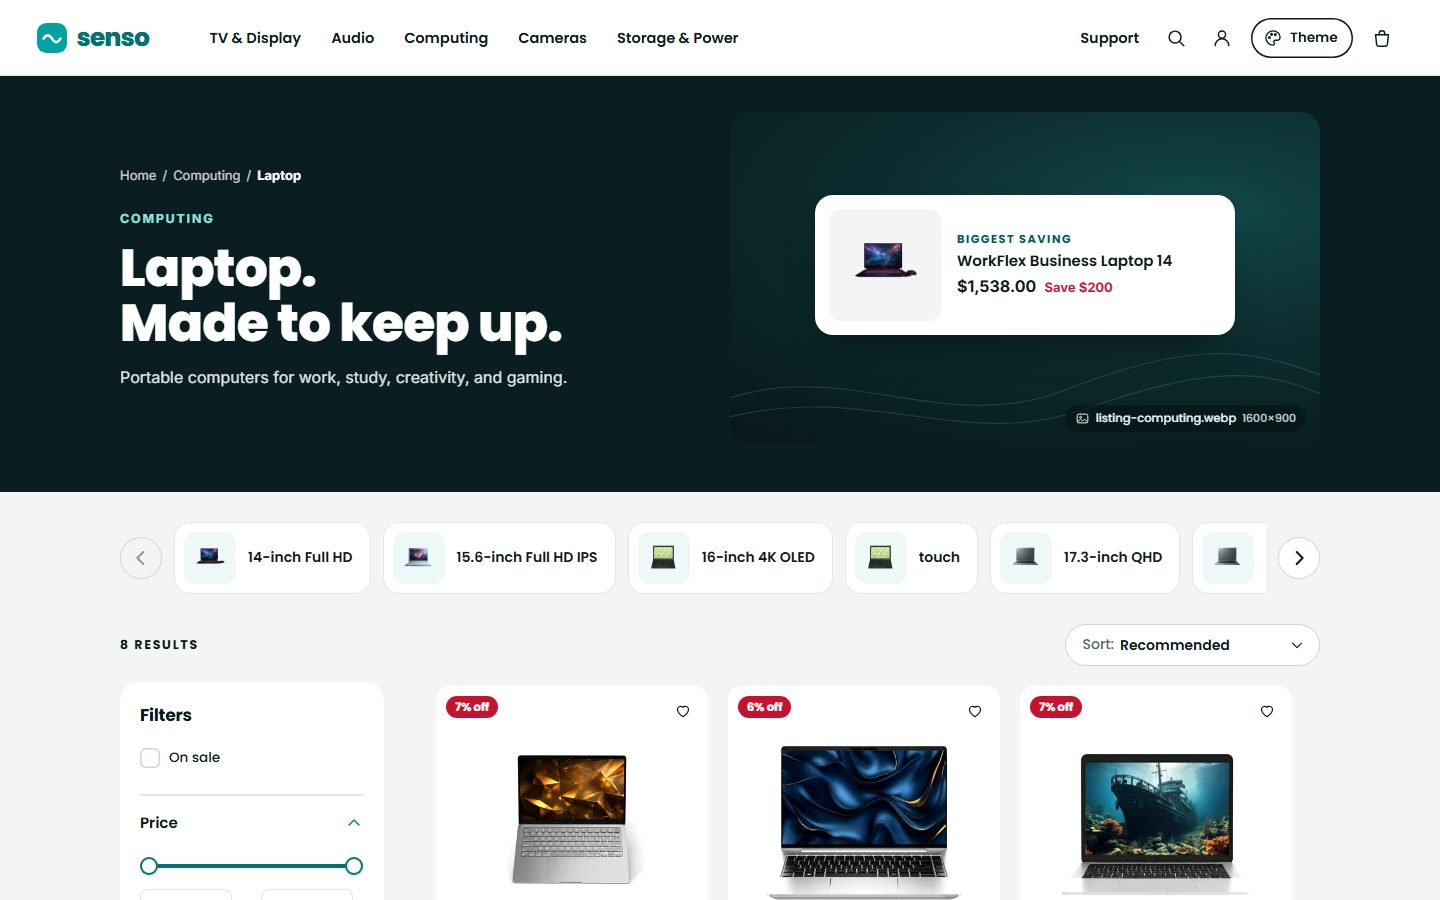
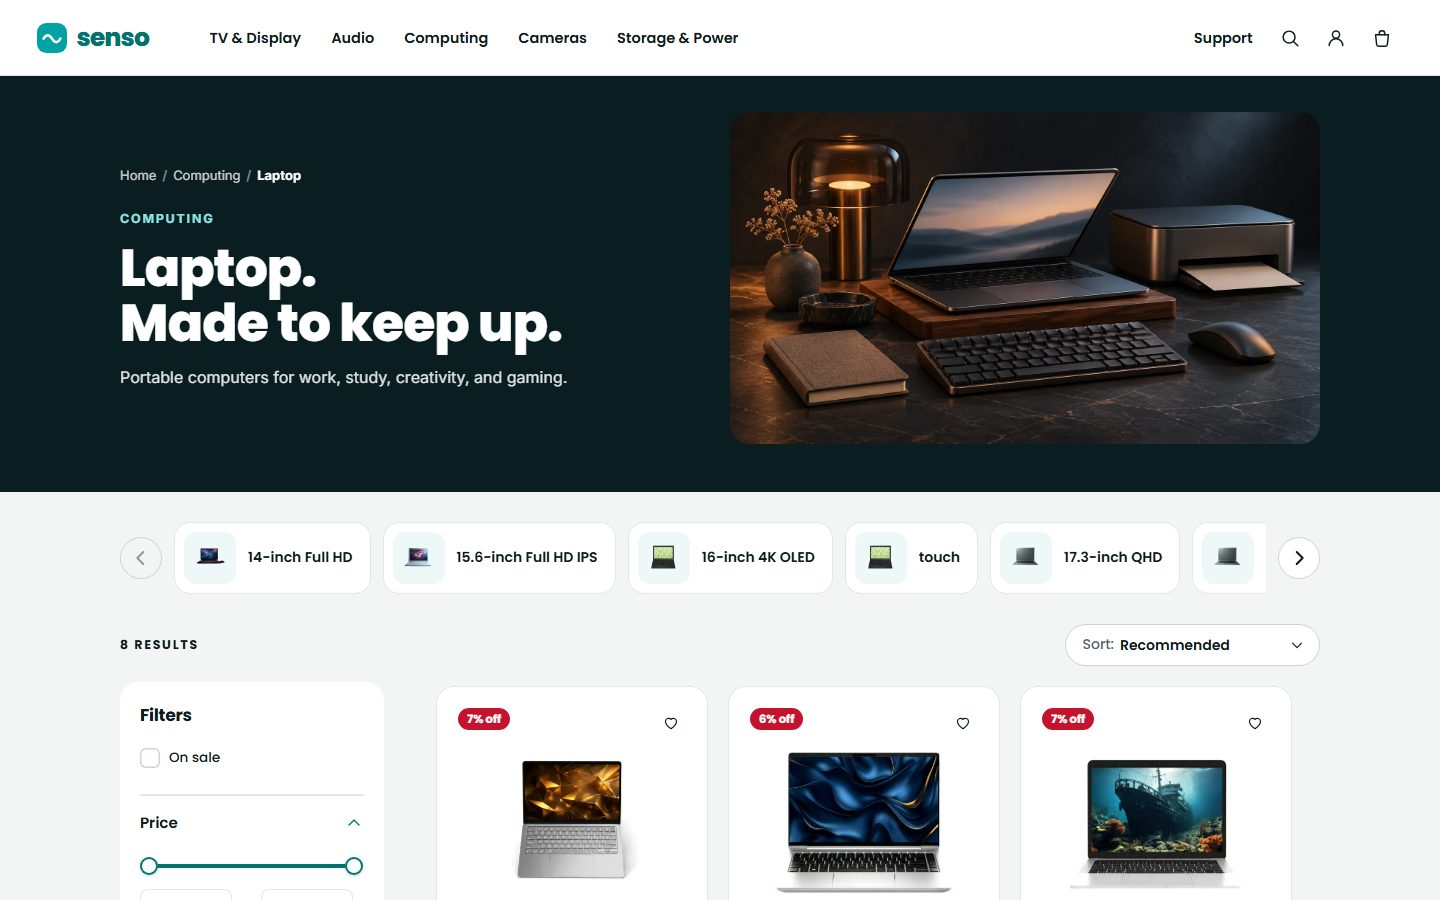
Senso 1.0.6: deploy 488 (release 01M72J7BVKMY9G9R312YVZQ2RM) pinned on domain 1242 — the theme row in the footer, the Codex photos
README screenshots and the cover retaken from the live 1.0.6 (desktop-theme.jpg
is now the footer's Theme row). SENSO.md: 1.0.5 and 1.0.6 with the live checks.
The shared contrast-audit.cjs copied from the kit (it now reads color-mix() and
oklab backgrounds).

diff --git a/SENSO.md b/SENSO.md
@@ -27,8 +27,8 @@ A premium electronics brand site: calm, spacious and cinematic.
 | --- | --- |
 | The name and mark (one place: `BRAND.name`) | `components/kalio/kalio-brand.ts`, `SensoWordmark.vue`, `assets/brand/senso-mark.svg` |
 | Product families from the live categories (TV & Display, Audio, Computing, Cameras, Storage & Power, More) | `components/senso/senso-families.ts` |
-| Header: clear over the hero, then solid white; families with mega panels (click, second click, Esc, click outside); Support, search panel, Account, Theme, cart; phone: full-screen menu with accordions | `components/kalio/shell/KalioHeader.vue`, `SensoMegaMenu.vue` |
-| Footer on mint: wordmark and the shop's socials, 4 link columns, legal row | `components/kalio/shell/KalioFooter.vue` |
+| Header: clear over the hero, then solid white; families with mega panels (click, second click, Esc, click outside); Support, search panel, Account, cart; phone: full-screen menu with accordions | `components/kalio/shell/KalioHeader.vue`, `SensoMegaMenu.vue` |
+| Footer on mint: wordmark and the shop's socials, 4 link columns, the Theme row (showcase shops only), legal row | `components/kalio/shell/KalioFooter.vue` |
 | Home: hero carousel, FEATURED, COLLECTIONS, LIFESTYLE, DEALS, CATEGORY, NEW, STORIES, newsletter | `SensoHome.vue`, `SensoHero.vue`, `SensoShowcase.vue`, `SensoCollections.vue`, `SensoRail.vue`, `SensoShelf.vue`, `SensoBlog.vue`, `SensoNewsletter.vue` |
 | The card (well, swatches or capacities, price, Save, deal clock, Add to cart / Choose options, Learn more in listings, Compare) | `SensoCard.vue`, `senso-card.ts` |
 | Listing: dark banner, kinds chips, N results, Sort pill, filter card, three a row; loading states | `SensoShopTop.vue`, `SensoFilterPanel.vue`, `pages/products/StorefrontPageProducts.vue`, `senso-listing-loading.ts` |
@@ -63,12 +63,25 @@ The domain's loading screen (the mark and "senso" on teal-ink with a thin moving
 
 Checks, all at 0:
 
-- `components/theme-switcher/tools/header-check.cjs` (`STORAGE_KEY=senso-theme`, `BRAND=.sn-header__brand`, `CART=.sn-header__ic.-cart`, `ACCOUNT=.sn-header__ic.-account`);
+- the footer's Theme row: palettes, Custom colour and Light / Dark repaint the site and survive a reload; no row and no stored theme on another shop (`header-check.cjs` tested the old header button and no longer applies);
 - `contrast-audit.cjs` and `cart-audit.cjs`;
 - `new-shop-kits/single-vendor-shop/ring-sweep.cjs`;
-- `scripts/senso-layout-checks.cjs`: every picture inside its own box, and every icon list on one edge.
+- `scripts/senso-layout-checks.cjs`: every picture inside its own box, every icon list on one edge, and every product card's content 8px or more inside its edges (`PAGES`, `WIDTHS`, `STORAGE`, `OPEN`, `FILLCART` as in its header).
 
 ## Releases
+
+- **1.0.6 (10 November 2026, deploy 488, release `01M72J7BVKMY9G9R312YVZQ2RM`, pinned on domain 1242): the theme row in the footer, the Codex photos.**
+  - **The theme switcher moves to the footer** (the owner, after talking with the Selldone team: the header button takes room and is not good for every shop). The Theme button leaves the header, whose actions are evenly spaced again (4px gaps at 1440 and 390). The shared package's `ThemeSwitcherRow.vue` and `theme-switcher.scss` (copied unchanged, now with the Custom colour swatch) sit in a strip of their own above the legal row, on the footer's edge, with the footer's colours (`--ts-ink`, `--ts-muted`, `--ts-line`, `--ts-ring`). Showcase shops only, as before. The docs (AGENTS.md, README, wiki) say "footer".
+  - **The 19 Codex photos** in `assets/senso/photos/` fill every slot. The build has 370 files (19 more; the folder's README.md is not bundled), and the upload answered in 36.5 s. On live, the slots probe found 0 placeholders. The home hero has five slides (Audio has its own now), plus the FEATURED and LIFESTYLE cards, the category banners, the product Highlights, About, and Support/Contact.
+  - **Selldone's busy answers are asked again.** The walk-through on 1.0.5 (390, dark) lost its families: one 429 on the first categories read left the phone menu without families for the whole visit, and 15 of 45 steps followed it down. The deals' "load more" passed (6, then 61). Now the categories and the home's product list are asked up to 4 times (1.2 s, 2.4 s and 4.8 s apart). A home whose hero has nothing to show gets the solid header instead of white words on white.
+  - **On photos, white stays white in dark mode.** The outlined white buttons and the hero's progress bars had turned dark: the build step rewrote their white. They now use the `--sn-on-photo` tokens, which it leaves alone. The category band's breadcrumb slashes stay pale.
+  - **Dark empty states (the owner's Walio report: light words on pastel chips).** Senso's empty cart drawer, its phone menu and its sign-in sheet put no words on a fixed light tint. The contrast audit in dark, with the drawer, the sheet or the menu open, printed TOTAL 0 for teal, violet and custom `#ffff00`, at 1440 and 390 (the menu at 390). That was 0 before any change, so nothing needed fixing.
+  - **Checked on live 1.0.6:** the saved block names `senso-electronics` 1.0.6. The contrast audit printed TOTAL 0 on home, two categories, a product, About, FAQ and Contact (teal light and dark), and on home, a category and a product (custom `#ffff00` dark). The ring sweep printed TOTAL 0 (light and dark). With a stub shop, no theme row showed and no stored theme was applied. The footer row passed at 1440 and 390, light and dark: palettes, Custom colour and Light / Dark each repaint, and Custom and Dark survive a reload. Arrow keys move along the swatches.
+
+- **1.0.5 (10 November 2026, deploy 485, release `01M72EK5EQ3049FTVSWVJQZRS5`, pinned on domain 1242): "Load more" is never skipped.**
+  - **The walk-through on live 1.0.4 (390, dark)** kept the offers at 6 of 61. Selldone asks for the next page when its "load more" pill crosses the screen (`v-intersect`). A phone's jump to the end of the page (the End key, a fast fling, or the walker's `scrollTo`) can pass the pill without it ever being seen. A real wheel scroll loaded 6, then 30.
+  - **The fix:** the listing page also watches the scroll (once per frame, passive). When the pill is within 240px of the screen's bottom or has been scrolled past, and Selldone is not already asking and has more, it asks for the next page. On dev, the same jumps loaded 6, then 61.
+  - **The live checks on 1.0.4 and 1.0.5 (10 November, after the card fix):** the layout checks (pictures in boxes, icon lists, card padding; home, a category, a product, the quick-buy sheet, FAQ, Contact, 404, the cart drawer and the cart page, 1440 and 390) printed TOTAL 0 in light and dark. The header check printed PROBLEMS 0 (teal light and dark). The contrast audit printed TOTAL 0 (teal light and dark: home, a category, offers, two products, compare, blog, FAQ, 404). The cart audit printed TOTAL 0 (light and dark). The ring sweep printed TOTAL 0 (light and dark).
 
 - **1.0.4 (10 November 2026, deploy 484, release `01M72DH8QC4N2MMY960W4XS00X`, pinned on domain 1242): content never touches its card's edge.**
   - **The owner's report on 1.0.3:** on every listing (category, search, offers, filtered or not), the card's content sat flush on its left and right edges, and the image well lost its inset.
